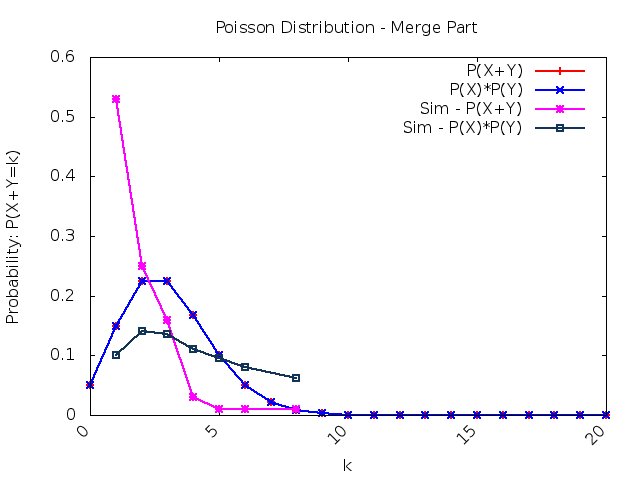
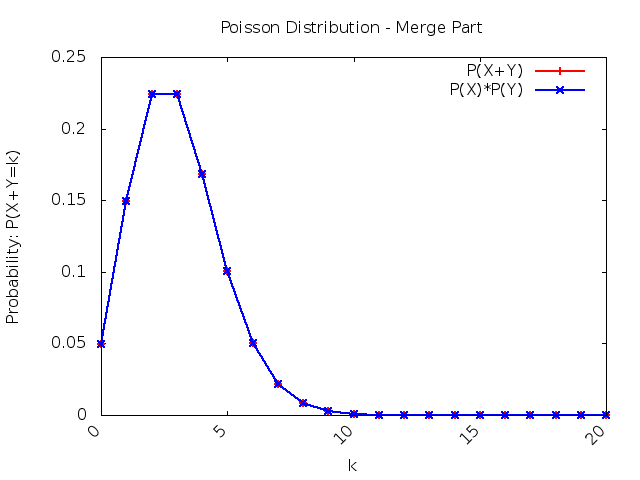
Add simulation of part A.

diff --git a/poisson_distribution/part_a.cc b/poisson_distribution/part_a.cc
@@ -18,7 +18,7 @@ int main(int argc,char *argv[]){
     args->set_args_rules("1","lambda 1 of Poisson X","1","int");
     args->set_args_rules("2","lambda 2 of Poisson Y","2","int");
     args->set_args_rules("k","upperbound of k (for S, which S=X+Y)","100","int");
-    args->set_args_rules("s","simulation times","100","int");
+    args->set_args_rules("s","simulation times","10000","int");
     // parse it!
     args->parsing(argc,argv);
 
@@ -85,13 +85,7 @@ int main(int argc,char *argv[]){
     rand_gen *gen = new rand_gen();
     event_list *elist = new event_list();
     int rnt=simulation_time;
-    /*while(rnt){
-        // printf("%lf\n",gen->exponential(lambda2,5*lambda1));
-        event_type x;
-        x.timestamp = gen->exponential(lambda2,5);
-        x.type = std::string("X");
-        elist->set(x);
-    }*/
+    FILE *fp_sim = fopen("output/part_a_sim.output","w+");
     // init with one X, Y event
     event_type X,Y,S;
     X.timestamp=0;
@@ -103,14 +97,16 @@ int main(int argc,char *argv[]){
     while(rnt){
         // pop out
         if(elist->get(S)){
-            if(S.type=="X"){
-                X.timestamp=gen->exponential(lambda1,5);
+            if(S.type==std::string("X")){
+                X.timestamp=gen->exponential(lambda1,5*lambda1);
                 X.type=std::string("X");
+                printf("X: %lf\n",X.timestamp);
                 elist->set(X);
             }
-            else{
-                Y.timestamp=gen->exponential(lambda2,5);
+            else if(S.type==std::string("Y")){
+                Y.timestamp=gen->exponential(lambda2,5*lambda2);
                 Y.type=std::string("Y");
+                //printf("%lf\n",Y.timestamp);
                 elist->set(Y);
             }
             // record S
@@ -119,17 +115,19 @@ int main(int argc,char *argv[]){
         }
     }
 
-    printf("size: %d, current time: %lf\n",(int)elist->rec.size(),elist->rec.back().timestamp);
+    //printf("size: %d, current time: %lf\n",(int)elist->rec.size(),elist->rec.back().timestamp);
     // erase the first 2 element
     elist->rec.erase(elist->rec.begin(),elist->rec.begin()+2);
-    int count=0;
-    double slot=1.0/(lambda1+lambda2),record_slot=slot;
-    printf("slot: %lf\n",slot);
-    std::map<int,int> counter;
+    int count=0,count_x=0,count_y=0;
+    double slot=1.0/(lambda1+lambda2),slot_x=1.0/lambda1,slot_y=1.0/lambda2,
+        record_slot=slot,record_slot_x=slot_x,record_slot_y=slot_y;
+    std::map<int,int> counter,counter_x,counter_y;
+
     while(elist->rec.size()!=0){
         event_type tmp;
         tmp=elist->rec.front();
         elist->rec.erase(elist->rec.begin(),elist->rec.begin()+1);
+        // total: S=X+Y
         if(tmp.timestamp<=record_slot)
             count++;
         else{
@@ -137,21 +135,53 @@ int main(int argc,char *argv[]){
             counter[count]++;
             count=0;
         }
+        // X
+        if(tmp.type==std::string("X")){
+            if(tmp.timestamp<=record_slot_x)
+                count_x++;
+            else{
+                record_slot_x+=slot_x;
+                counter_x[count_x]++;
+                count_x=0;
+            }
+        }
+        // Y
+        if(tmp.type==std::string("Y")){
+            if(tmp.timestamp<=record_slot_y)
+                count_y++;
+            else{
+                record_slot_y+=slot_y;
+                counter_y[count_y]++;
+                count_y=0;
+            }
+        }
+
     }
     if(count!=0)
         counter[count]++;
+    if(count_x!=0)
+        counter_x[count_x]++;
+    if(count_y!=0)
+        counter_y[count_y]++;
 
-    count=0;
+    count=0,count_x=0,count_y=0;
+
     for(auto&it : counter){
         count+=it.second;
-        //printf("%d %lf\n",it.first,(float)it.second);
     }
-    float total=0.0;
+
+    for(auto&it : counter_x){
+        //printf("X: %d %d\n",it.first,it.second);
+    }
+
+    for(auto&it : counter_y){
+        //printf("Y: %d %d\n",it.first,it.second);
+    }
+
     for(auto&it : counter){
-        printf("%d %lf\n",it.first,(float)it.second/count);
-        total+=(float)it.second/count;
+        fprintf(fp_sim,"%d %lf\n",it.first,(float)it.second/count);
     }
-    printf("%f\n",total);
+    //printf("%f\n",total);
 
     return 0;
 }

diff --git a/utils/README.md b/utils/README.md
@@ -35,6 +35,14 @@ $ ./a.out
 5
 ```
 
+## event
+
+* Provide class `event` for discrete event utility.
+
+## rand_gen
+
+* provide random variable generation.
+
 ## poisson 
 
 * Generate the Poisson probability : $$p(i) = P\{X=n\} = \frac{e^{-\lambda}}{n!} \cdot \lambda^n, \ \ \  n=0,1, ...$$
